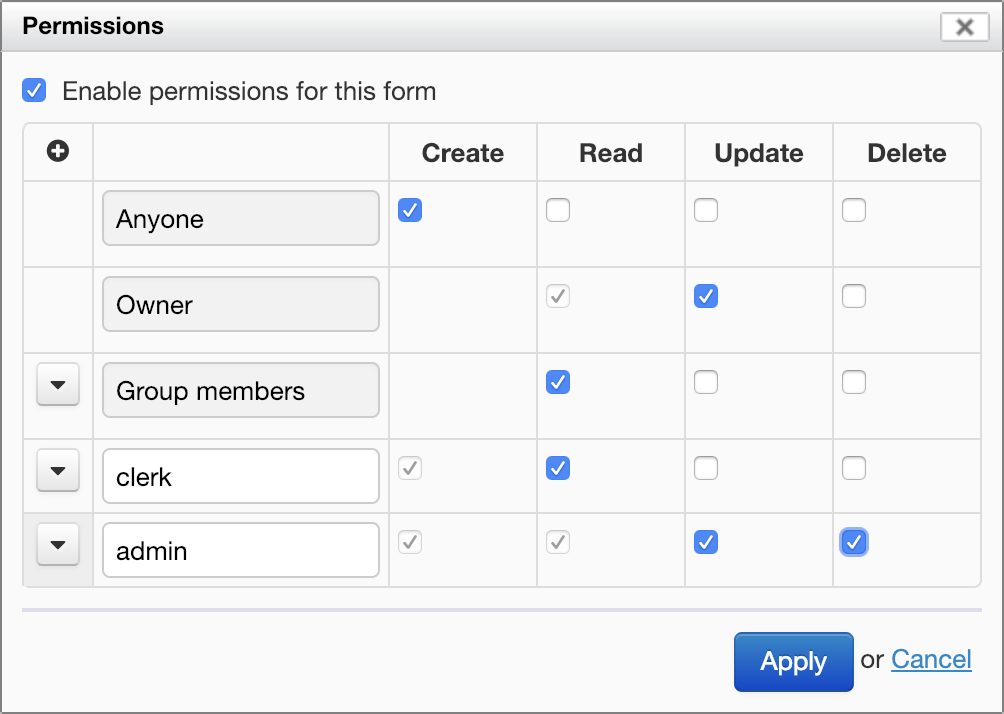
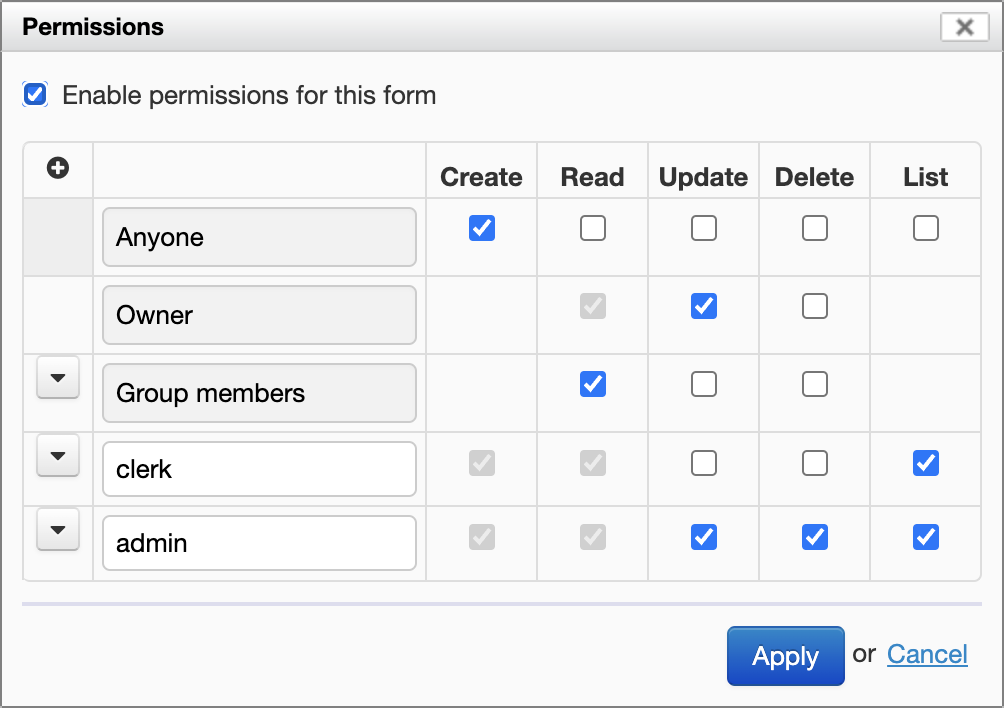
"List" permission

diff --git a/form-runner/access-control/deployed-forms.md b/form-runner/access-control/deployed-forms.md
@@ -20,6 +20,16 @@ This shows the following dialog:
 
 After you click on the checkbox, you'll be able to set access restrictions on the _create_, _read, update_, and _delete_ operations.
 
+## The `list` permission
+
+[SINCE Orbeon Forms 2022.1]
+
+The "List" permission allows specifying that the user can list form data on the Form Runner Summary page. If a user navigates to the Summary page of a form and the "List" permission is not granted to the user, the Summary page responds with an "Unauthorized" error.
+
+With earlier versions of Orbeon Forms, the "List" permission was not checked separately. However, the ability to "Read" implied the ability to "List" on the Summary page.
+
+Forms created and edited with earlier versions of Orbeon Forms that have the "Read" permission enabled also implicitly have the "List" permission enabled, for backward compatibility. Opening such a form in Form Builder will show both the "Read" and "List" permissions. If the form author deselects the "List" permission, and then publishes the form, then the form will not allow the "List" permission, as expected.
+
 ## Setting permissions
 
 ### An example
